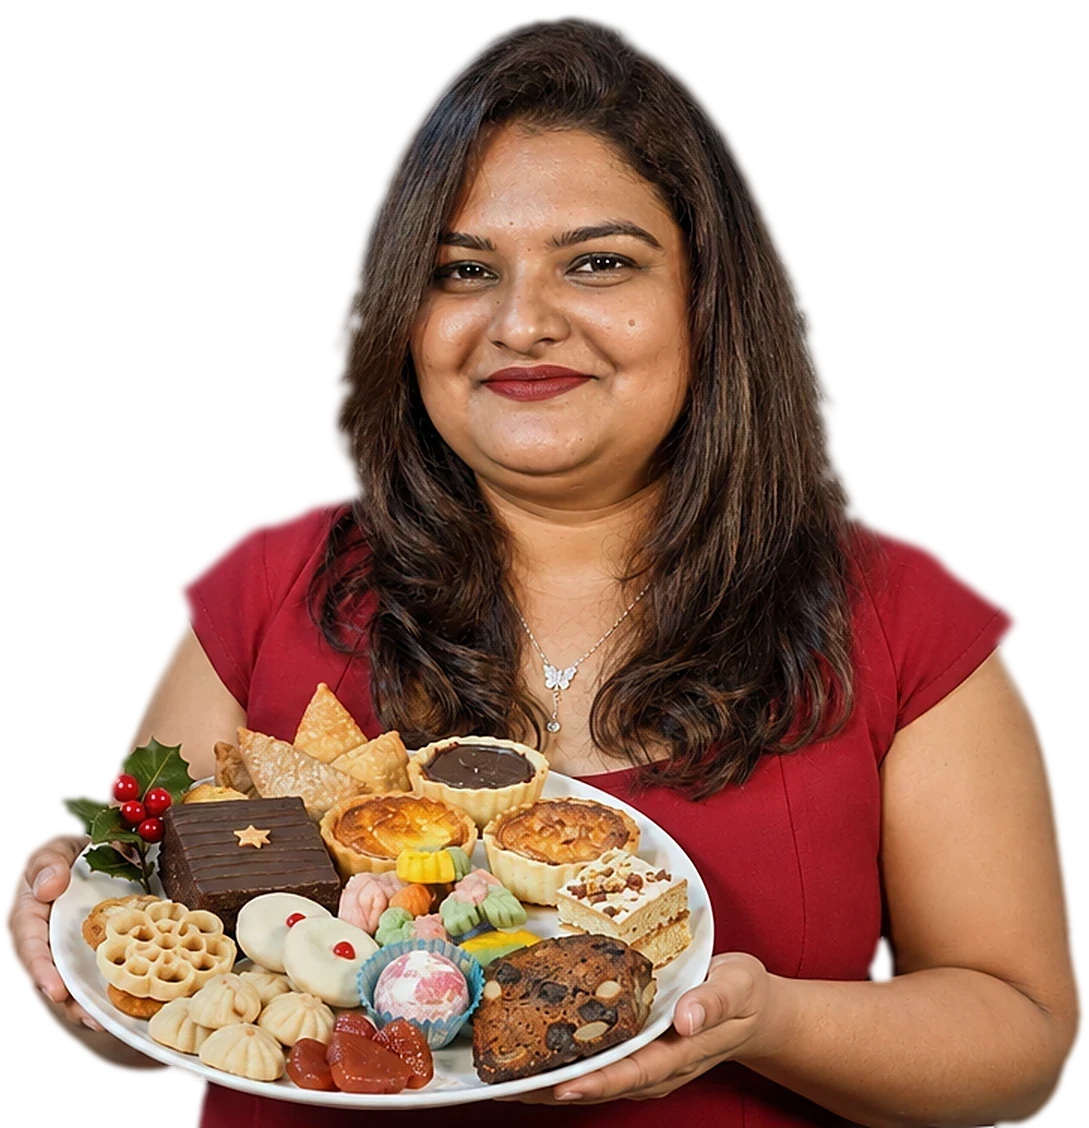
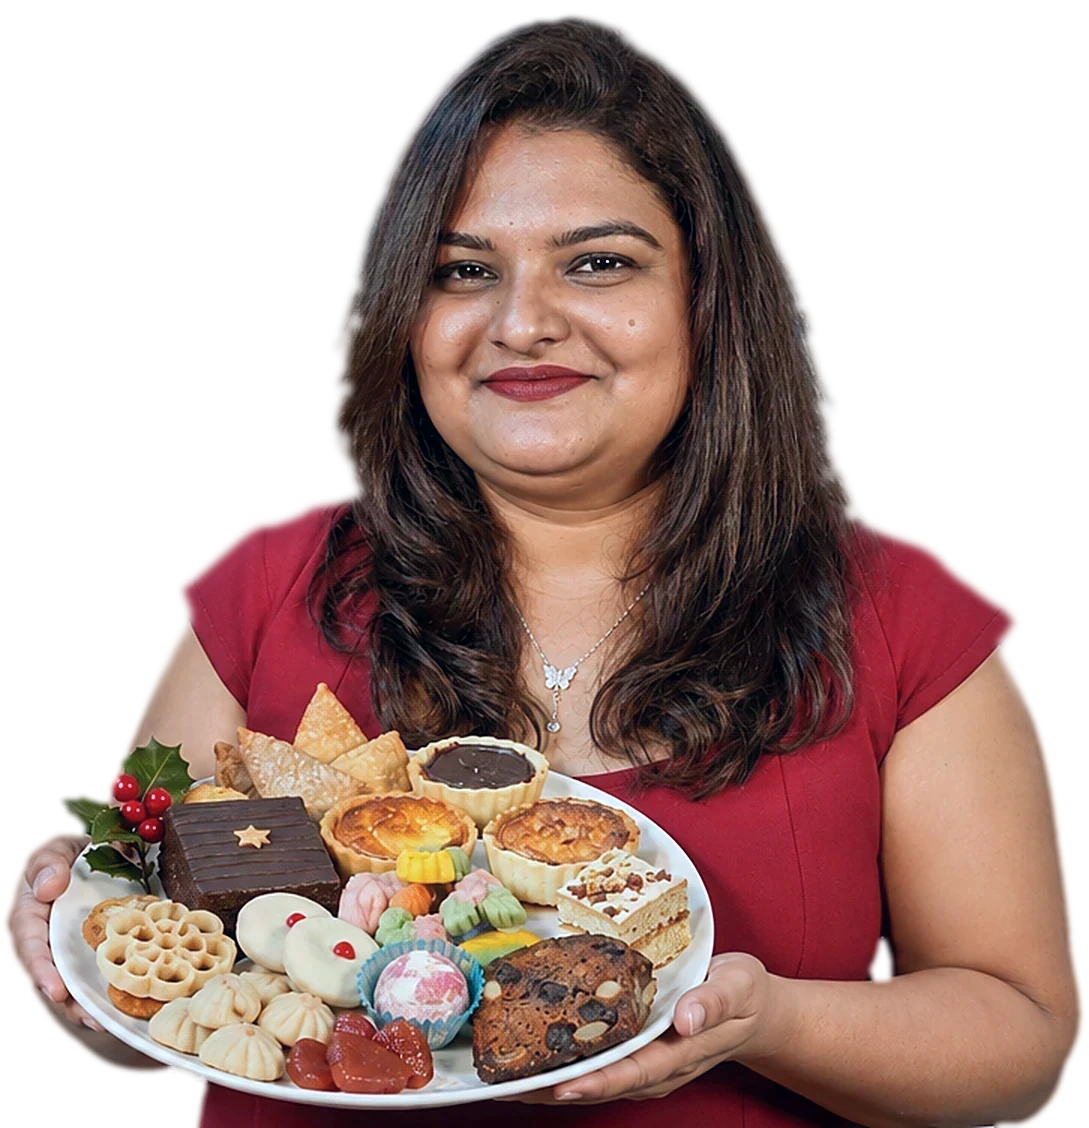
Chef coat photo in chef section, hero skin less yellow

diff --git a/index.html b/index.html
@@ -15,7 +15,7 @@
 <meta name="theme-color" content="#6E1423">
 <link rel="icon" type="image/png" href="img/icon.png">
 <link rel="apple-touch-icon" href="img/icon.png">
-<link rel="preload" as="image" href="img/rebecca_plate.webp?v=92dc951e" fetchpriority="high">
+<link rel="preload" as="image" href="img/rebecca_plate.webp?v=e9b77a1d" fetchpriority="high">
 <link rel="preconnect" href="https://fonts.googleapis.com">
 <link rel="preconnect" href="https://fonts.gstatic.com" crossorigin>
 <link rel="stylesheet" href="https://fonts.googleapis.com/css2?family=Inter:wght@400;500;600;700;800&family=Playfair+Display:ital,wght@0,600;0,700;0,800;1,700;1,800&display=swap">
@@ -489,7 +489,7 @@ footer small{opacity:.75}
    <svg class="xh-flake" style="right:6%;top:12%;width:22px;color:#D9B77E" viewBox="0 0 24 24"><g stroke="currentColor" stroke-width="1.8" stroke-linecap="round"><path d="M12 2v20M3.3 7l17.4 10M3.3 17L20.7 7"/></g></svg>
    <svg class="xh-flake" style="left:30%;top:6%;width:16px" viewBox="0 0 24 24"><path d="M12 0l2.4 9.6L24 12l-9.6 2.4L12 24l-2.4-9.6L0 12l9.6-2.4z" fill="#D9B77E"/></svg>
    <svg class="xh-flake" style="right:24%;top:4%;width:12px" viewBox="0 0 24 24"><path d="M12 0l2.4 9.6L24 12l-9.6 2.4L12 24l-2.4-9.6L0 12l9.6-2.4z" fill="#F4EFE6"/></svg>
-   <img class="xh-chef" src="img/rebecca_plate.webp?v=92dc951e" width="720" height="752" fetchpriority="high" alt="Chef Rebecca Corda holding a plate of her Christmas sweets">
+   <img class="xh-chef" src="img/rebecca_plate.webp?v=e9b77a1d" width="720" height="752" fetchpriority="high" alt="Chef Rebecca Corda holding a plate of her Christmas sweets">
    <svg class="xh-holly" style="right:-1%;top:34%;width:84px;transform:rotate(28deg)" viewBox="0 0 100 70" aria-hidden="true"><path d="M50 40 C38 18 18 22 6 10 C14 16 20 6 28 12 C30 2 40 8 44 2 C46 18 58 30 50 40Z" fill="#2E6B4F"/><path d="M50 40 C62 18 82 22 94 10 C86 16 80 6 72 12 C70 2 60 8 56 2 C54 18 42 30 50 40Z" fill="#3F8763"/><circle cx="43" cy="44" r="7" fill="#C8202F"/><circle cx="57" cy="45" r="7" fill="#B3122B"/><circle cx="50" cy="54" r="7" fill="#D4283A"/><circle cx="41" cy="42" r="2" fill="#fff" opacity=".6"/></svg>
    <div class="xh-tag"><span class="xh-ic"><svg width="14" height="14" viewBox="0 0 24 24" fill="none" stroke="#F4EFE6" stroke-width="2" stroke-linecap="round"><path d="M6 13.9A4 4 0 0 1 7 6a5 5 0 0 1 10 0 4 4 0 0 1 1 7.9V21H6z"/><path d="M6 17h12"/></svg></span><span><b>Chef Rebecca Corda</b>Made fresh in her kitchen</span></div>
   </div>
@@ -556,7 +556,7 @@ footer small{opacity:.75}
 
 <section class="about wrap" id="about" aria-labelledby="aboutT">
   <div class="about-grid">
-    <img src="img/chef_smile.webp?v=cdef43e0" alt="Chef Rebecca Corda smiling" width="640" height="800" loading="lazy">
+    <img src="img/chef_smile.webp?v=aedbf302" alt="Chef Rebecca Corda smiling" width="640" height="800" loading="lazy">
     <div>
       <div class="label g">From Rebecca's kitchen</div>
       <h2 id="aboutT">Chef Rebecca Corda</h2>
@@ -601,7 +601,7 @@ footer small{opacity:.75}
 <script>
 (function(){
 "use strict";
-var IMG = {"bauble": "img/bauble.webp?v=84ac5e2a", "choctarts": "img/choctarts.webp?v=a0496dfa", "coconutice": "img/coconutice.webp?v=825f6e0c", "coconuttarts": "img/coconuttarts.webp?v=e6c4a260", "cookies_mix": "img/cookies_mix.webp?v=e3e3556e", "cookies_reindeer": "img/cookies_reindeer.webp?v=43ca4ce7", "cookies_tree": "img/cookies_tree.webp?v=f282027b", "guava": "img/guava.webp?v=b4ee02db", "kulkuls": "img/kulkuls.webp?v=13d46411", "logo_color": "img/logo_color.webp?v=d792e80c", "logo_color_whitetext": "img/logo_color_whitetext.webp?v=3e7745c7", "marzipan": "img/marzipan.webp?v=7d690b72", "milkcream": "img/milkcream.webp?v=3c635063", "nevries_rose": "img/nevries_rose.webp?v=d3a0a4ca", "reindeer": "img/reindeer.webp?v=dfce2591", "rumsquare": "img/rumsquare.webp?v=8fed53cc", "sweets_mix": "img/sweets_mix.webp?v=5456ed5c", "bow": "img/bow.webp?v=3344814b", "s_neureos": "img/s_neureos.webp?v=f58e66d0", "s_guava": "img/s_guava.webp?v=69e7bc7c", "p_marzipan": "img/p_marzipan.webp?v=b910f84f", "p_snowflake": "img/p_snowflake.webp?v=baaf44f7", "p_kulkul": "img/p_kulkul.webp?v=a521b335", "s_shank": "img/s_shank.webp?v=4e01757c", "p_cice": "img/p_cice.webp?v=47568056", "p_nankhatai": "img/p_nankhatai.webp?v=35e5ee82", "s_rose": "img/s_rose.webp?v=e475da9b", "p_milkcream": "img/p_milkcream.webp?v=b4cf9032", "p_santa": "img/p_santa.webp?v=351365d1", "p_guava": "img/p_guava.webp?v=48c10615", "p_bombs": "img/p_bombs.webp?v=f5dc288d", "p_neureos": "img/p_neureos.webp?v=83caf044", "s_kulkul": "img/s_kulkul.webp?v=214fe2b4", "s_bombs": "img/s_bombs.webp?v=3568cfed", "s_marzipan": "img/s_marzipan.webp?v=096c3cde", "p_datewal": "img/p_datewal.webp?v=e6025672", "s_datewal": "img/s_datewal.webp?v=48c4ca97", "rebecca_plate": "img/rebecca_plate.webp?v=92dc951e", "s_baath": "img/s_baath.webp?v=5499f3bf", "p_baath": "img/p_baath.webp?v=b31ac2b7", "p_shank": "img/p_shank.webp?v=be270e27", "p_macarons": "img/p_macarons.webp?v=c8511ffd", "p_reindeer": "img/p_reindeer.webp?v=a6073b8f", "chef_smile": "img/chef_smile.webp?v=cdef43e0", "p_tree": "img/p_tree.webp?v=8b1e6e91", "p_ginger": "img/p_ginger.webp?v=af2b651a", "s_cice": "img/s_cice.webp?v=ed635c3d", "p_rumcake": "img/p_rumcake.webp?v=50a5fcb5", "p_rose": "img/p_rose.webp?v=c6c130df", "chef_table": "img/chef_table.webp?v=efad1b4a", "p_cotart": "img/p_cotart.webp?v=0e6318df", "chef_face": "img/chef_face.webp?v=04d43a50", "s_milkcream": "img/s_milkcream.webp?v=458933fc", "s_nankhatai": "img/s_nankhatai.webp?v=1387287b"};
+var IMG = {"bauble": "img/bauble.webp?v=84ac5e2a", "choctarts": "img/choctarts.webp?v=a0496dfa", "coconutice": "img/coconutice.webp?v=825f6e0c", "coconuttarts": "img/coconuttarts.webp?v=e6c4a260", "cookies_mix": "img/cookies_mix.webp?v=e3e3556e", "cookies_reindeer": "img/cookies_reindeer.webp?v=43ca4ce7", "cookies_tree": "img/cookies_tree.webp?v=f282027b", "guava": "img/guava.webp?v=b4ee02db", "kulkuls": "img/kulkuls.webp?v=13d46411", "logo_color": "img/logo_color.webp?v=d792e80c", "logo_color_whitetext": "img/logo_color_whitetext.webp?v=3e7745c7", "marzipan": "img/marzipan.webp?v=7d690b72", "milkcream": "img/milkcream.webp?v=3c635063", "nevries_rose": "img/nevries_rose.webp?v=d3a0a4ca", "reindeer": "img/reindeer.webp?v=dfce2591", "rumsquare": "img/rumsquare.webp?v=8fed53cc", "sweets_mix": "img/sweets_mix.webp?v=5456ed5c", "bow": "img/bow.webp?v=3344814b", "s_neureos": "img/s_neureos.webp?v=f58e66d0", "s_guava": "img/s_guava.webp?v=69e7bc7c", "p_marzipan": "img/p_marzipan.webp?v=b910f84f", "p_snowflake": "img/p_snowflake.webp?v=baaf44f7", "p_kulkul": "img/p_kulkul.webp?v=a521b335", "s_shank": "img/s_shank.webp?v=4e01757c", "p_cice": "img/p_cice.webp?v=47568056", "p_nankhatai": "img/p_nankhatai.webp?v=35e5ee82", "s_rose": "img/s_rose.webp?v=e475da9b", "p_milkcream": "img/p_milkcream.webp?v=b4cf9032", "p_santa": "img/p_santa.webp?v=351365d1", "p_guava": "img/p_guava.webp?v=48c10615", "p_bombs": "img/p_bombs.webp?v=f5dc288d", "p_neureos": "img/p_neureos.webp?v=83caf044", "s_kulkul": "img/s_kulkul.webp?v=214fe2b4", "s_bombs": "img/s_bombs.webp?v=3568cfed", "s_marzipan": "img/s_marzipan.webp?v=096c3cde", "p_datewal": "img/p_datewal.webp?v=e6025672", "s_datewal": "img/s_datewal.webp?v=48c4ca97", "rebecca_plate": "img/rebecca_plate.webp?v=e9b77a1d", "s_baath": "img/s_baath.webp?v=5499f3bf", "p_baath": "img/p_baath.webp?v=b31ac2b7", "p_shank": "img/p_shank.webp?v=be270e27", "p_macarons": "img/p_macarons.webp?v=c8511ffd", "p_reindeer": "img/p_reindeer.webp?v=a6073b8f", "chef_smile": "img/chef_smile.webp?v=aedbf302", "p_tree": "img/p_tree.webp?v=8b1e6e91", "p_ginger": "img/p_ginger.webp?v=af2b651a", "s_cice": "img/s_cice.webp?v=ed635c3d", "p_rumcake": "img/p_rumcake.webp?v=50a5fcb5", "p_rose": "img/p_rose.webp?v=c6c130df", "chef_table": "img/chef_table.webp?v=efad1b4a", "p_cotart": "img/p_cotart.webp?v=0e6318df", "chef_face": "img/chef_face.webp?v=04d43a50", "s_milkcream": "img/s_milkcream.webp?v=458933fc", "s_nankhatai": "img/s_nankhatai.webp?v=1387287b"};
 var WA = "918087800535";
 var CFG = {closeAt:"2026-12-13T23:59:59+05:30", firstDeliveryDate:"2026-12-20", lastDeliveryDate:"2026-12-24", upiId:"rebeccacorda14-3@okaxis", upiName:"Rebecca Corda", soldOut:[], fullDates:[], pickupInfo:"Pickup address and timings will be shared on WhatsApp."};
 var API = "https://script.google.com/macros/s/AKfycbyPiyZia6992mpGfEQj4Ehb10d-bnhDlb0fQqJqQ_0nignIbXRO0fxc4UVapH_EdLeK/exec";
